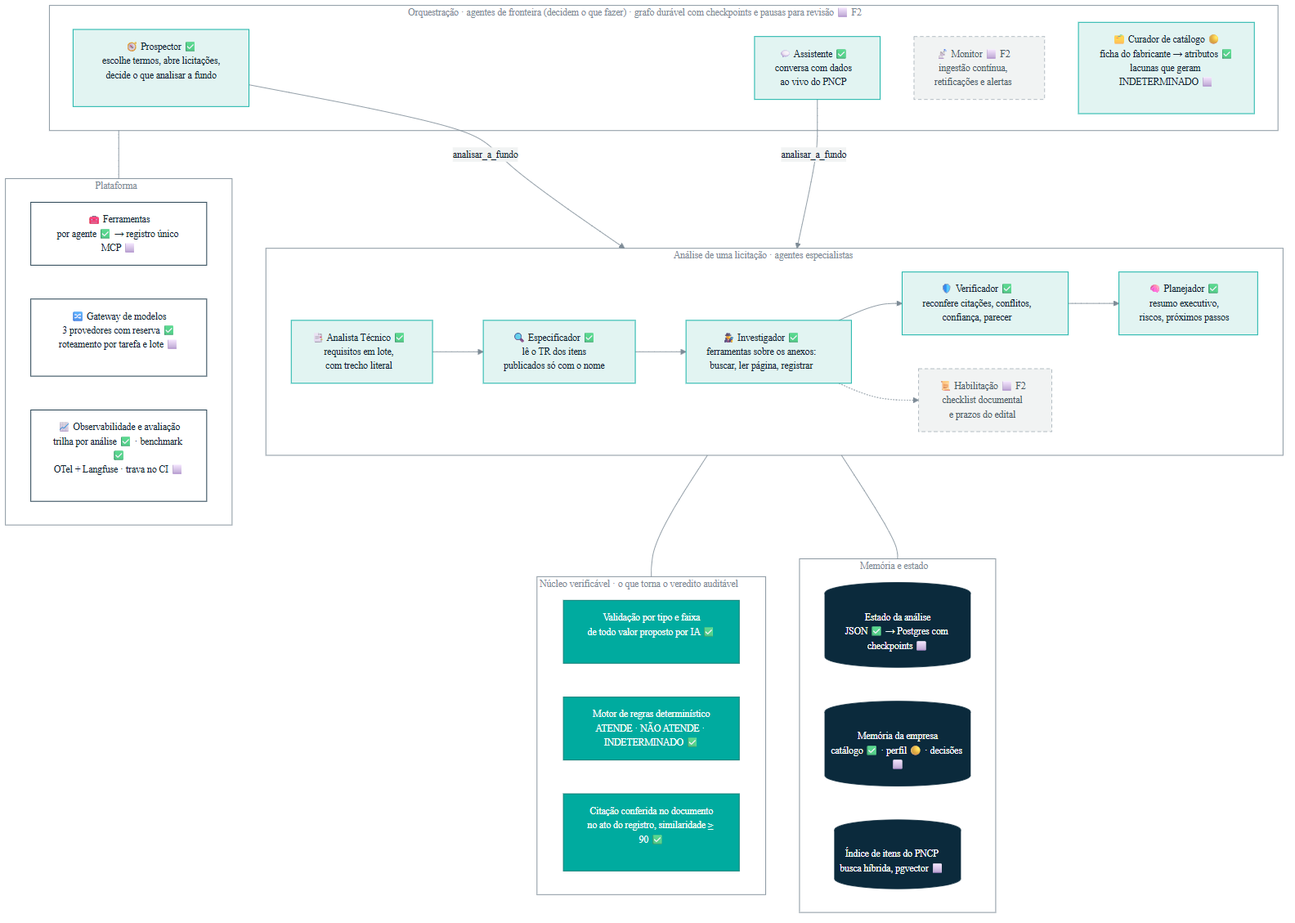
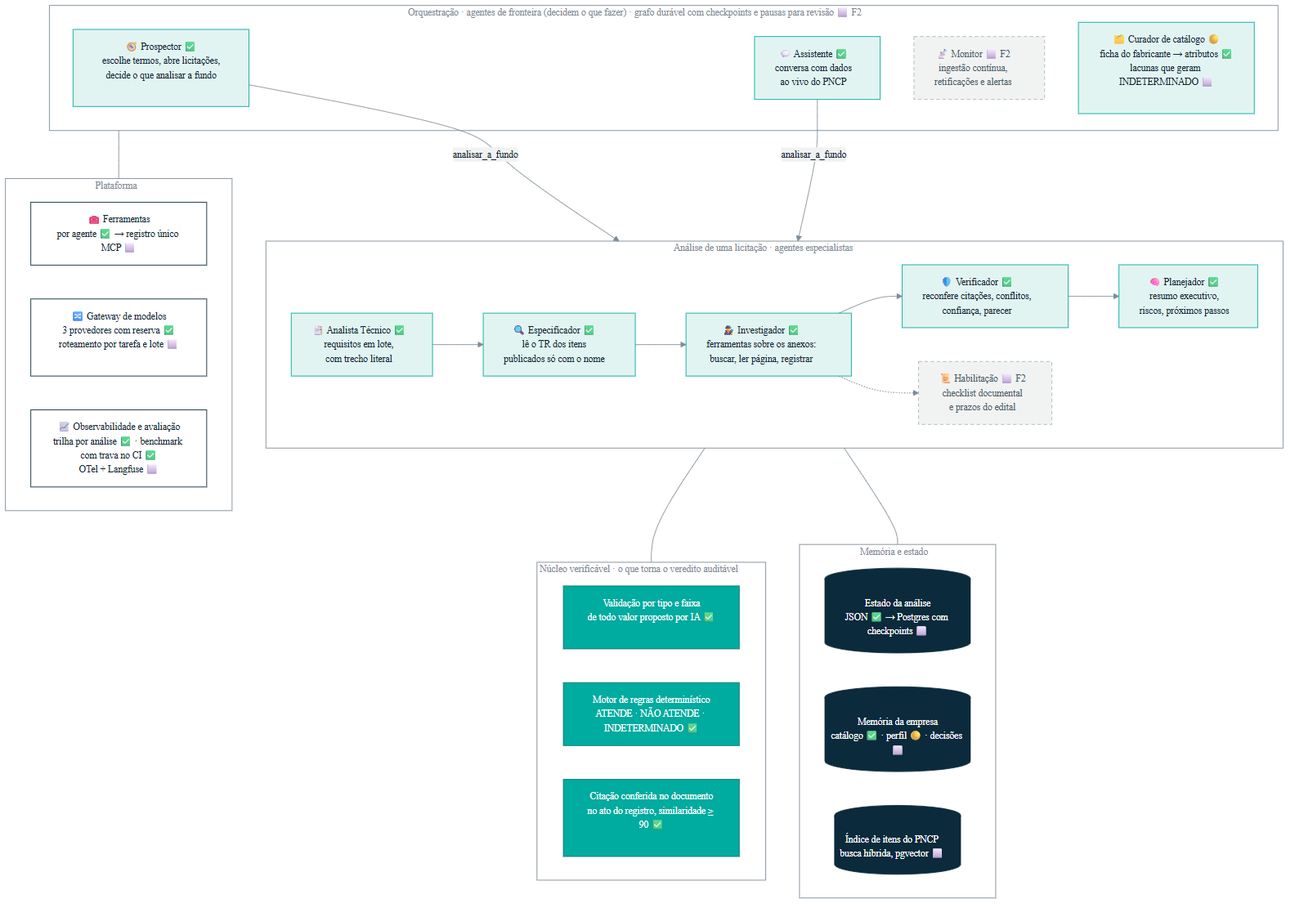
ci: lint, testes e benchmark como trava de qualidade no GitHub Actions
Workflow com três jobs em Linux, modo determinístico e offline: ruff,
pytest sem os testes de integração e o benchmark contra os gabaritos.
O benchmark ganha a opção --limiares: se alguma métrica ficar abaixo do
mínimo em eval/limiares.json, sai com código 1 e escreve a tabela no
resumo da execução.

Rodar a suíte em Linux revelou que os documentos.json gravados no
Windows guardavam os anexos como "arquivos\x.pdf"; em Linux nenhum anexo
dos casos congelados era lido. A leitura agora aceita os dois formatos e
a gravação usa "/".

README e plano de desenvolvimento atualizados: selo real do CI, trava do
benchmark marcada como pronta, 112 testes.

diff --git a/eval/run_benchmark.py b/eval/run_benchmark.py
@@ -9,12 +9,14 @@ Métricas (seção 13 do roadmap): acurácia por item, precisão de COMPATÍVEL,
 incompatibilidades, rastreabilidade (evidências verificadas), tempo e custo.
 
 Uso: python eval/run_benchmark.py [--casos goianira_pe038_2026 aruana_pp005_2026] [--catalogo ...]
+     python eval/run_benchmark.py --limiares eval/limiares.json   # trava do CI: sai com código 1 se cair
 """
 
 from __future__ import annotations
 
 import argparse
 import json
+import os
 import sys
 from pathlib import Path
 
@@ -26,12 +28,52 @@ from obranexo.catalog.loader import carregar_catalogo_json  # noqa: E402
 from obranexo.config import config  # noqa: E402
 from obranexo.connectors.pncp import listar_casos  # noqa: E402
 
+METRICAS = {
+    "acuracia_itens": "Acerto por item",
+    "precisao_compativel": "Precisão de COMPATÍVEL",
+    "deteccao_incompatibilidade": "Detecção de incompatibilidade",
+    "acuracia_pares": "Acerto nos pares item × produto",
+    "rastreabilidade": "Citações conferidas",
+}
+
+
+def verificar_limiares(metricas: dict, limiares: dict) -> list[str]:
+    """Compara as métricas com os mínimos; devolve as falhas (lista vazia = passou)."""
+    falhas = [f"caso com erro: {e}" for e in metricas["erros"]]
+    modo = limiares.get("modo")
+    if modo and metricas["modo"] != modo:
+        falhas.append(f"o benchmark rodou em modo {metricas['modo']}; a trava exige {modo} (OBRANEXO_LLM_PROVIDER=none)")
+    for nome, minimo in limiares.get("minimos", {}).items():
+        valor = metricas.get(nome)
+        if valor is None:
+            falhas.append(f"{nome}: sem dados para medir (mínimo {minimo:.0%})")
+        elif valor < minimo:
+            falhas.append(f"{nome}: {valor:.1%} abaixo do mínimo de {minimo:.0%}")
+    return falhas
+
+
+def _publicar_resumo_github(metricas: dict, limiares: dict, falhas: list[str]) -> None:
+    """No GitHub Actions, escreve a tabela das métricas no resumo da execução."""
+    destino = os.environ.get("GITHUB_STEP_SUMMARY")
+    if not destino:
+        return
+    linhas = ["### Benchmark contra gabaritos", "", "| Métrica | Obtido | Mínimo | |", "|---|---|---|---|"]
+    for nome, minimo in limiares.get("minimos", {}).items():
+        valor = metricas.get(nome)
+        ok = valor is not None and valor >= minimo
+        linhas.append(f"| {METRICAS.get(nome, nome)} | {'—' if valor is None else f'{valor:.1%}'} | {minimo:.0%} | {'✅' if ok else '❌'} |")
+    linhas += ["", f"Modo: {metricas['modo']} · casos: {metricas['casos']} · chamadas ao LLM: {metricas['chamadas_llm']}", ""]
+    linhas += ["**Passou.**"] if not falhas else ["**Falhou:**", *[f"- {f}" for f in falhas]]
+    with open(destino, "a", encoding="utf-8") as arq:
+        arq.write("\n".join(linhas) + "\n")
+
 
 def main() -> int:
     ap = argparse.ArgumentParser()
     ap.add_argument("--casos", nargs="*")
     ap.add_argument("--catalogo", default=str(config.catalogo_demo))
     ap.add_argument("--saida", default=str(RAIZ / "docs" / "benchmark_resultado.json"))
+    ap.add_argument("--limiares", help="JSON com os mínimos por métrica; abaixo deles o comando sai com código 1 (trava do CI)")
     args = ap.parse_args()
 
     empresa = carregar_catalogo_json(Path(args.catalogo))
@@ -43,11 +85,13 @@ def main() -> int:
     tot = {"itens": 0, "itens_ok": 0, "compat_previstos": 0, "compat_corretos": 0, "incompat_esperados": 0, "incompat_detectados": 0,
            "pares": 0, "pares_ok": 0, "evidencias": 0, "evidencias_ok": 0, "tempo_s": 0.0, "custo_usd": 0.0, "chamadas_llm": 0}
     relatorio = []
+    erros: list[str] = []
     for caso in casos:
         gabarito = json.loads((caso / "gabarito.json").read_text(encoding="utf-8"))
         analise = executar_caso(caso, empresa, salvar=False)
         if analise.status != "concluida":
             print(f"{caso.name}: ERRO {analise.erro}")
+            erros.append(f"{caso.name}: {analise.erro}")
             continue
         skus = {p.id: p.sku for p in empresa.produtos}
         melhor: dict[int, tuple[str, str]] = {}
@@ -118,9 +162,37 @@ def main() -> int:
         "chamadas_llm": tot["chamadas_llm"],
         "modo": "llm" if config.llm_disponivel else "deterministico",
     }
+    def razao(a, b):
+        return round(a / b, 4) if b else None
+
+    metricas = {
+        "acuracia_itens": razao(tot["itens_ok"], tot["itens"]),
+        "precisao_compativel": razao(tot["compat_corretos"], tot["compat_previstos"]),
+        "deteccao_incompatibilidade": razao(tot["incompat_detectados"], tot["incompat_esperados"]),
+        "acuracia_pares": razao(tot["pares_ok"], tot["pares"]),
+        "rastreabilidade": razao(tot["evidencias_ok"], tot["evidencias"]),
+        "chamadas_llm": tot["chamadas_llm"],
+        "modo": resumo["modo"],
+        "casos": len(casos),
+        "erros": erros,
+    }
     print("\nRESUMO:", json.dumps(resumo, ensure_ascii=False, indent=1))
-    Path(args.saida).write_text(json.dumps({"resumo": resumo, "casos": relatorio}, ensure_ascii=False, indent=1, default=str), encoding="utf-8")
+    Path(args.saida).write_text(
+        json.dumps({"resumo": resumo, "metricas": metricas, "casos": relatorio}, ensure_ascii=False, indent=1, default=str), encoding="utf-8"
+    )
     print(f"Relatório salvo em {args.saida}")
+
+    if not args.limiares:
+        return 0
+    limiares = json.loads(Path(args.limiares).read_text(encoding="utf-8"))
+    falhas = verificar_limiares(metricas, limiares)
+    _publicar_resumo_github(metricas, limiares, falhas)
+    if falhas:
+        print("\nTRAVA DE QUALIDADE: FALHOU")
+        for f in falhas:
+            print(f"  ✗ {f}")
+        return 1
+    print("\nTRAVA DE QUALIDADE: passou (todas as métricas nos mínimos de " + args.limiares + ")")
     return 0
 
 

diff --git a/tests/test_benchmark_limiares.py b/tests/test_benchmark_limiares.py
@@ -1,0 +1,49 @@
+"""Trava de qualidade do CI: o benchmark falha quando uma métrica cai abaixo do mínimo."""
+
+import importlib.util
+from pathlib import Path
+
+RAIZ = Path(__file__).resolve().parents[1]
+_spec = importlib.util.spec_from_file_location("run_benchmark", RAIZ / "eval" / "run_benchmark.py")
+run_benchmark = importlib.util.module_from_spec(_spec)
+_spec.loader.exec_module(run_benchmark)
+
+LIMIARES = {"modo": "deterministico", "minimos": {"acuracia_itens": 1.0, "rastreabilidade": 0.95}}
+
+
+def _metricas(**kw):
+    base = {"acuracia_itens": 1.0, "rastreabilidade": 1.0, "chamadas_llm": 0, "modo": "deterministico", "casos": 2, "erros": []}
+    return {**base, **kw}
+
+
+def test_passa_quando_todas_as_metricas_atingem_o_minimo():
+    assert run_benchmark.verificar_limiares(_metricas(rastreabilidade=0.95), LIMIARES) == []
+
+
+def test_falha_quando_uma_metrica_cai():
+    falhas = run_benchmark.verificar_limiares(_metricas(acuracia_itens=0.8889), LIMIARES)
+    assert len(falhas) == 1 and "acuracia_itens" in falhas[0]
+
+
+def test_falha_quando_nao_ha_dados_para_medir():
+    falhas = run_benchmark.verificar_limiares(_metricas(rastreabilidade=None), LIMIARES)
+    assert len(falhas) == 1 and "sem dados" in falhas[0]
+
+
+def test_falha_quando_um_caso_da_erro():
+    falhas = run_benchmark.verificar_limiares(_metricas(erros=["goianira: ValueError"]), LIMIARES)
+    assert any("caso com erro" in f for f in falhas)
+
+
+def test_falha_quando_roda_com_llm():
+    falhas = run_benchmark.verificar_limiares(_metricas(modo="llm"), LIMIARES)
+    assert any("modo llm" in f for f in falhas)
+
+
+def test_limiares_do_repositorio_sao_validos():
+    import json
+
+    limiares = json.loads((RAIZ / "eval" / "limiares.json").read_text(encoding="utf-8"))
+    assert limiares["modo"] == "deterministico"
+    assert set(limiares["minimos"]) <= set(run_benchmark.METRICAS)
+    assert all(0 < v <= 1 for v in limiares["minimos"].values())

diff --git a/tests/test_casos_portaveis.py b/tests/test_casos_portaveis.py
@@ -1,0 +1,30 @@
+"""Pacotes congelados precisam abrir em Windows e em Linux (CI, servidor na nuvem)."""
+
+import json
+from pathlib import Path
+
+from obranexo.config import config
+from obranexo.connectors.pncp import carregar_caso, listar_casos
+
+
+def test_caminho_gravado_no_windows_abre_em_qualquer_sistema(tmp_path):
+    caso = tmp_path / "caso"
+    (caso / "arquivos").mkdir(parents=True)
+    (caso / "arquivos" / "edital.pdf").write_bytes(b"%PDF-1.4")
+    origem = config.dir_casos / "goianira_pe038_2026"
+    for nome in ("contratacao.json", "itens.json"):
+        (caso / nome).write_text((origem / nome).read_text(encoding="utf-8"), encoding="utf-8")
+    doc = {"id": "doc-1", "contratacao_id": "x", "nome": "edital.pdf", "caminho_local": "arquivos\\edital.pdf"}
+    (caso / "documentos.json").write_text(json.dumps([doc]), encoding="utf-8")
+
+    _, _, documentos = carregar_caso(caso)
+
+    assert Path(documentos[0].caminho_local).exists()
+
+
+def test_todos_os_anexos_baixados_dos_casos_existem():
+    faltando = []
+    for diretorio in listar_casos():
+        _, _, documentos = carregar_caso(diretorio)
+        faltando += [f"{diretorio.name}: {d.caminho_local}" for d in documentos if d.caminho_local and not Path(d.caminho_local).exists()]
+    assert not faltando, faltando

diff --git a/src/obranexo/connectors/pncp.py b/src/obranexo/connectors/pncp.py
@@ -307,7 +307,7 @@ class PNCPClient:
             caminho = self.baixar_arquivo(url, destino / "arquivos", nome)
             doc.nome = caminho.name
             doc.sha256 = hashlib.sha256(caminho.read_bytes()).hexdigest()
-            doc.caminho_local = str(caminho.relative_to(destino))
+            doc.caminho_local = caminho.relative_to(destino).as_posix()  # "/" funciona em Windows e Linux
             doc.extraivel = caminho.suffix.lower() in {".pdf", ".docx", ".xlsx", ".zip"}
             documentos.append(doc)
         salvar_caso(destino, contratacao, itens, documentos)
@@ -346,7 +346,8 @@ def carregar_caso(diretorio: Path) -> tuple[Contratacao, list[ItemDemanda], list
     ]
     for doc in documentos:
         if doc.caminho_local:
-            doc.caminho_local = str(diretorio / doc.caminho_local)
+            # Pacotes gravados no Windows têm "arquivos\\x.pdf": em Linux a barra invertida faria parte do nome
+            doc.caminho_local = str(diretorio / doc.caminho_local.replace("\\", "/"))
     return contratacao, itens, documentos
 
 

diff --git a/README.md b/README.md
@@ -20,7 +20,7 @@
 <p align="center">
   <img alt="Python 3.12" src="https://img.shields.io/badge/python-3.12-0b2a3c?style=flat-square&logo=python&logoColor=white">
   <img alt="FastAPI" src="https://img.shields.io/badge/FastAPI-API%20%2B%20SSE-00ab9f?style=flat-square">
-  <img alt="Testes" src="https://img.shields.io/badge/testes-104%20passando-0ca30c?style=flat-square">
+  <a href="https://github.com/kauandivino/obranexo/actions/workflows/ci.yml"><img alt="CI" src="https://img.shields.io/github/actions/workflow/status/kauandivino/obranexo/ci.yml?branch=main&style=flat-square&label=CI"></a>
   <img alt="Rastreabilidade" src="https://img.shields.io/badge/cita%C3%A7%C3%B5es%20conferidas-100%25-0ca30c?style=flat-square">
   <img alt="Versão" src="https://img.shields.io/badge/vers%C3%A3o-0.1%20%C2%B7%20MVP-7d8b96?style=flat-square">
   <img alt="AKCIT Camp 2026" src="https://img.shields.io/badge/AKCIT%20Camp-2026-fab219?style=flat-square">
@@ -173,7 +173,7 @@ flowchart TB
     direction LR
     TR[🧰 Ferramentas<br/>por agente ✅ → registro único MCP ⬜]:::inf
     GW[🔀 Gateway de modelos<br/>3 provedores com reserva ✅<br/>roteamento por tarefa e lote ⬜]:::inf
-    OB[📈 Observabilidade e avaliação<br/>trilha por análise ✅ · benchmark ✅<br/>OTel + Langfuse · trava no CI ⬜]:::inf
+    OB[📈 Observabilidade e avaliação<br/>trilha por análise ✅ · benchmark com trava no CI ✅<br/>OTel + Langfuse ⬜]:::inf
   end
   PR -- analisar_a_fundo --> AN
   AS -- analisar_a_fundo --> AN
@@ -240,8 +240,8 @@ Agregação por item: qualquer obrigatório não atendido → **INCOMPATÍVEL**;
 
 ### Observabilidade e avaliação
 
-- **Hoje ✅:** trilha completa de cada análise (nó, mensagem, modelo, item, documento), visível na interface e via SSE; contagem de chamadas, tokens e custo por modelo; benchmark contra gabaritos revisados (`eval/run_benchmark.py`); testes de regressão gerados a partir de cada defeito encontrado em dados reais.
-- **Produção ⬜:** OpenTelemetry + Langfuse por agente e por cliente; benchmark como **trava de release no CI** (F1); conjunto rotulado por duas pessoas com concordância medida (F1); amostragem revisada em produção e monitor de deriva da qualidade (F3).
+- **Hoje ✅:** trilha completa de cada análise (nó, mensagem, modelo, item, documento), visível na interface e via SSE; contagem de chamadas, tokens e custo por modelo; benchmark contra gabaritos revisados (`eval/run_benchmark.py`); testes de regressão gerados a partir de cada defeito encontrado em dados reais; **CI em todo PR** (lint, testes e o benchmark como trava: se uma métrica cair abaixo do mínimo em `eval/limiares.json`, o PR fica vermelho).
+- **Produção ⬜:** OpenTelemetry + Langfuse por agente e por cliente; conjunto rotulado por duas pessoas com concordância medida (F1); amostragem revisada em produção e monitor de deriva da qualidade (F3).
 
 ### Decisões de projeto
 
@@ -320,7 +320,7 @@ Só dados reais. Tudo abaixo é reproduzível a partir deste repositório, em mo
 
 | O quê | Resultado | Como conferir |
 |---|---|---|
-| Testes automatizados | **104 passando** (unitários + API), lint limpo (ruff) | `pytest -m "not integracao"` |
+| Testes automatizados | **112 passando** (unitários + API), lint limpo (ruff); rodam em todo PR no CI, em Linux | `pytest -m "not integracao"` · [Actions](https://github.com/kauandivino/obranexo/actions/workflows/ci.yml) |
 | Benchmark contra gabaritos revisados | 2 contratações, 9 itens e 8 pares item × produto: **100% de acerto por item, 100% nos pares, 100% de rastreabilidade** | `python eval/run_benchmark.py` · [`docs/benchmark_resultado.json`](docs/benchmark_resultado.json) |
 | Tempo | 5 s para os 2 casos em modo determinístico; 55 s com Gemini (2 chamadas) | idem |
 | Teste cego | **5 pregões abertos nunca vistos**, 133 itens, rodados sem ajuste prévio; 10 defeitos encontrados e corrigidos, cada um virou teste de regressão; rastreabilidade 100% nas duas rodadas | [`docs/teste_cego_2026-10-23.md`](docs/teste_cego_2026-10-23.md) · `tests/test_regressao_teste_cego.py` |
@@ -329,7 +329,7 @@ Só dados reais. Tudo abaixo é reproduzível a partir deste repositório, em mo
 
 **Limites honestos desses números.** O benchmark de 100% é **dentro da amostra**: os 2 casos rotulados foram usados no desenvolvimento e o gabarito é da própria equipe. Os 5 casos do teste cego estão rotulados pelo sistema, com **gabarito humano pendente** em [`docs/teste_cego_rotulagem.csv`](docs/teste_cego_rotulagem.csv) — não foram rotulados pela mesma pessoa que corrigiu o código, para o benchmark não virar circular. O custo em dólar aparece como zero porque os modelos usados estão no nível gratuito; o custo estimado por análise com preços de tabela é de R$ 0,02 a R$ 0,48.
 
-**Metodologia planejada (F1–F2).** Gabarito duplo (duas pessoas, divergências resolvidas, concordância medida) para 10 ou mais contratações e 150 a 300 pares; métricas-alvo do roadmap: precisão de COMPATÍVEL ≥ 85%, recall de itens relevantes ≥ 80%, detecção de incompatibilidade obrigatória ≥ 90%, rastreabilidade ≥ 95%, consistência entre execuções ≥ 90%, tempo ≤ 3 min; benchmark como trava no CI; cronometragem do trabalho manual contra o assistido com 5 a 10 empresas no piloto.
+**Metodologia planejada (F1–F2).** Gabarito duplo (duas pessoas, divergências resolvidas, concordância medida) para 10 ou mais contratações e 150 a 300 pares; métricas-alvo do roadmap: precisão de COMPATÍVEL ≥ 85%, recall de itens relevantes ≥ 80%, detecção de incompatibilidade obrigatória ≥ 90%, rastreabilidade ≥ 95%, consistência entre execuções ≥ 90%, tempo ≤ 3 min; cronometragem do trabalho manual contra o assistido com 5 a 10 empresas no piloto.
 
 ## Modelo de negócio e mercado
 
@@ -354,7 +354,7 @@ A visão é ampla; a execução começa pequena, verificável e orientada por re
 | Fase | Período | Objetivo | Entregas principais | Critério de saída |
 |---|---|---|---|---|
 | **F0 · v0.1** Prova de conceito | 22–24/10/2026 | demo de ponta a ponta com dados reais | 7 agentes, PNCP ao vivo, 9 casos reais, catálogo por ficha, assistente, 3 provedores, benchmark, teste cego | os 7 critérios da demo rodam offline sem intervenção — **atingido ✅** |
-| **F1 · v0.2** MVP robusto | 25/10–28/11/2026 | confiabilidade e primeira prova de valor | gabarito duplo em 10+ contratações; PostgreSQL + Alembic; login e isolamento por empresa; Docker + CI com benchmark como trava; busca em todas as modalidades; temperatura 0 e versão de prompt no cache; preços reais dos modelos; logs estruturados; recalibração da prioridade; 5 entrevistas e 1–2 pilotos | roda na nuvem com Postgres; benchmark ≥ 10 contratações; ≥ 1 piloto com fornecedor real |
+| **F1 · v0.2** MVP robusto | 25/10–28/11/2026 | confiabilidade e primeira prova de valor | gabarito duplo em 10+ contratações; PostgreSQL + Alembic; login e isolamento por empresa; Docker; CI com benchmark como trava ✅; busca em todas as modalidades; temperatura 0 e versão de prompt no cache; preços reais dos modelos; logs estruturados; recalibração da prioridade; 5 entrevistas e 1–2 pilotos | roda na nuvem com Postgres; benchmark ≥ 10 contratações; ≥ 1 piloto com fornecedor real |
 | **F2 · v0.3** Beta fechado | dez/2026–fev/2027 | plataforma agêntica e piloto em escala | grafo durável com checkpoints e pausas para revisão; registro MCP de ferramentas; Monitor (ingestão contínua, índice híbrido com pgvector, alertas); Habilitação; feedback que recalibra; fila com workers; OTel + Langfuse; PCA, OCR e tabelas; **piloto de 60 dias com 10 distribuidores** | precisão ≥ 95% fora da amostra; rastreabilidade 100%; custo medido < R$ 1/análise; 95% das análises em < 3 min |
 | **F3 · v1.0** Produção | mar–jun/2027 | operar com clientes pagantes | AWS como código (ECS, RDS + pgvector, S3, Bedrock); gateway de modelos com roteamento, lote e orçamento por cliente; RLS e anexos versionados; Rastreador de obras; planos e cobrança; LGPD documentada, pentest, trilha de auditoria; avaliação contínua em produção | 30 dias cumprindo as metas de serviço (99,5%, p95 < 90 s); margem 75–85% |
 | **F4 · v1.x** Escala | 2º sem/2027 → | novas fontes, segmentos e agentes | Obrasgov e portais estaduais; Precificação com histórico de preços; grafo órgão–objeto–item–fornecedor; API pública e servidor MCP para CRM e assessorias; novos segmentos (hidráulica, climatização, incêndio) | churn < 3%/mês; LTV/CAC ≥ 3 |
@@ -388,7 +388,7 @@ flowchart LR
   subgraph OBS[" Qualidade "]
     direction TB
     OT[📈 OpenTelemetry + Langfuse ⬜ F2<br/>hoje: trilha por análise ✅]:::plan
-    EV[🧪 Avaliação contínua<br/>benchmark ✅ · trava no CI ⬜ F1<br/>amostragem em produção ⬜ F3]:::plan
+    EV[🧪 Avaliação contínua<br/>benchmark com trava no CI ✅<br/>amostragem em produção ⬜ F3]:::plan
   end
   LLM{{Gemini · Groq · Anthropic ✅<br/>Bedrock ⬜ F3}}:::inf
   W --> G
@@ -428,9 +428,10 @@ obranexo analisar goianira_pe038_2026     # análise completa pela linha de coma
 obranexo abertas --uf GO                  # pregões com propostas abertas, ao vivo no PNCP
 obranexo coletar 01291707000167 2026 75 meu_caso   # baixa e congela uma contratação
 
-pytest -m "not integracao"                # 104 testes, sem chamar o LLM
+pytest -m "not integracao"                # 112 testes, sem chamar o LLM
 pytest -m integracao -v                   # chama o provedor configurado (usa cota)
 python eval/run_benchmark.py              # benchmark contra os gabaritos
+python eval/run_benchmark.py --limiares eval/limiares.json   # a mesma trava de qualidade do CI
 ```
 
 ### Provedores de IA
@@ -569,13 +570,15 @@ docs/
   images/                capturas da interface
   teste_cego_*.{md,csv}  teste cego e planilha de rotulagem
   benchmark_resultado.json
-eval/run_benchmark.py    benchmark contra gabaritos
-tests/                   104 testes (regras, agentes sem LLM, API, regressão do teste cego, integração com LLM)
+eval/run_benchmark.py    benchmark contra gabaritos (com --limiares, trava de qualidade)
+eval/limiares.json       mínimos por métrica usados pela trava
+tests/                   112 testes (regras, agentes sem LLM, API, regressão do teste cego, integração com LLM)
+.github/workflows/ci.yml lint, testes e benchmark como trava em todo PR (Linux, modo determinístico e offline)
 pitch/                   planejamento, fala e slides do pitch
 BMC_ObraNexo.txt · reports/ · research_notes/   modelo de negócio e pesquisa
 ```
 
-**Estrutura-alvo** (F1–F3, incremental sobre a atual): `src/obranexo/graph/` (grafo durável, checkpoints, interrupções) · `tools/` (registro MCP) · `gateway/` (roteamento de modelos) · `ingest/` (coleta agendada, índice de itens) · `db/` (SQLModel + Alembic) · `observability/` · `infra/` (Docker, Terraform) · `.github/workflows/` (lint, testes, benchmark como trava).
+**Estrutura-alvo** (F1–F3, incremental sobre a atual): `src/obranexo/graph/` (grafo durável, checkpoints, interrupções) · `tools/` (registro MCP) · `gateway/` (roteamento de modelos) · `ingest/` (coleta agendada, índice de itens) · `db/` (SQLModel + Alembic) · `observability/` · `infra/` (Docker, Terraform).
 </details>
 
 ## Documentação

diff --git a/docs/PLANO_DESENVOLVIMENTO.md b/docs/PLANO_DESENVOLVIMENTO.md
@@ -33,6 +33,7 @@ Defeitos encontrados em 24/10 que afetam resultado ou credibilidade. Pequenos, i
 | e | Prioridade recalibrada: prazo ABERTO vale +35, ENCERRADO com SRP +5 e sem SRP 0; cobertura de valor 0,5; pesos em constantes nomeadas no topo de `planejador.py` | `agents/planejador.py`, `tests/test_agentes_sem_llm.py` | Itaberaí (aberta, 51%) fica acima de Goianira (encerrada, 100%); benchmark continua 100% |
 | f | Preços reais dos modelos (tabela oficial out/2026) em `precos_usd`, incluindo Groq; custo por análise aparece na UI e no dossiê | `config.py`, `web/js/views/metricas.js` | `custo_usd > 0` numa análise com Gemini pago; teste unitário do cálculo |
 | g | Logs estruturados: `structlog` em JSON por evento (análise, nó, ferramenta, modelo, tokens, duração, erro); `EventoLog` passa a emitir também para o logger | `agents/contexto.py`, `api/jobs.py`, novo `observability/logging.py` | cada análise gera linhas JSON parseáveis; teste lê o log de uma análise determinística |
+| i | ✅ Pacotes congelados portáveis: `documentos.json` gravado no Windows guardava `arquivos\x.pdf`, e em Linux nenhum anexo era lido (achado pelo CI); leitura aceita os dois formatos e a gravação usa `/` | `connectors/pncp.py`, `tests/test_casos_portaveis.py` | os 3 jobs do CI passam em Linux |
 | h | Limites por licitação: paginar itens (>500) e anexos (>100) do PNCP | `connectors/pncp.py` | SEINFRA lista os 100+ anexos; teste com resposta gravada de 2 páginas |
 
 ### PT-1.2 · Avaliação com gabarito duplo (semanas 1–3, em paralelo)
@@ -42,7 +43,7 @@ Defeitos encontrados em 24/10 que afetam resultado ou credibilidade. Pequenos, i
 | a | Rotular os 5 casos cegos (133 itens) por **duas pessoas** na planilha existente; resolver divergências; registrar concordância (Cohen's kappa) | `docs/teste_cego_rotulagem.csv` → `data/casos/cego_*/gabarito.json` | kappa reportado em `docs/avaliacao.md`; 7 casos com gabarito |
 | b | Coletar e rotular 3 contratações novas de outras UFs (DF, MT, TO), uma delas com TR em DOCX e uma concorrência de obra | `data/casos/` | ≥ 10 contratações, ≥ 150 pares item × produto |
 | c | `run_benchmark.py` passa a calcular precisão/recall por classe, matriz de confusão e consistência (3 execuções); sai em JSON e Markdown | `eval/run_benchmark.py`, `eval/metrics.py` (novo) | `docs/avaliacao.md` gerado com as métricas-alvo do roadmap (seção 13.2) |
-| d | Benchmark como trava no CI: job que roda o benchmark determinístico e falha se qualquer métrica cair abaixo do limiar definido em `eval/limiares.json` | `.github/workflows/ci.yml`, `eval/limiares.json` | PR que degrada o benchmark fica vermelho |
+| d | ✅ Benchmark como trava no CI: job que roda o benchmark determinístico e falha se qualquer métrica cair abaixo do limiar definido em `eval/limiares.json` | `.github/workflows/ci.yml`, `eval/limiares.json` | PR que degrada o benchmark fica vermelho |
 
 ### PT-1.3 · PostgreSQL e persistência (semanas 2–3)
 
@@ -70,7 +71,7 @@ Pré-requisito para qualquer piloto com catálogo real.
 | # | Tarefa | Arquivos | Aceite |
 |---|---|---|---|
 | a | `Dockerfile` (python 3.12-slim, `uv`), `docker-compose.yml` com `app` + `postgres:16` + volume para `data/` | `Dockerfile`, `docker-compose.yml`, `.dockerignore` | `docker compose up` sobe a aplicação com banco em < 2 min |
-| b | CI no GitHub Actions: ruff, `pytest -m "not integracao"`, benchmark determinístico (PT-1.2d), build da imagem | `.github/workflows/ci.yml` | badge real no README substitui o estático |
+| b | 🟡 CI no GitHub Actions: ruff, `pytest -m "not integracao"`, benchmark determinístico (PT-1.2d) ✅; build da imagem entra com o Dockerfile (PT-1.5a) | `.github/workflows/ci.yml` | badge real no README substitui o estático ✅ |
 | c | Deploy em uma VM ou serviço gerenciado simples (Fly.io, Railway ou EC2 única) com HTTPS; `OBRANEXO_LLM_CACHE` e `data/` em volume persistente | `infra/` (scripts), documentação em `docs/deploy.md` | URL pública estável para o piloto; healthcheck em `/api/status` |
 | d | `detect-secrets` ou `gitleaks` no pre-commit e no CI | `.pre-commit-config.yaml`, CI | commit com chave é bloqueado |
 
